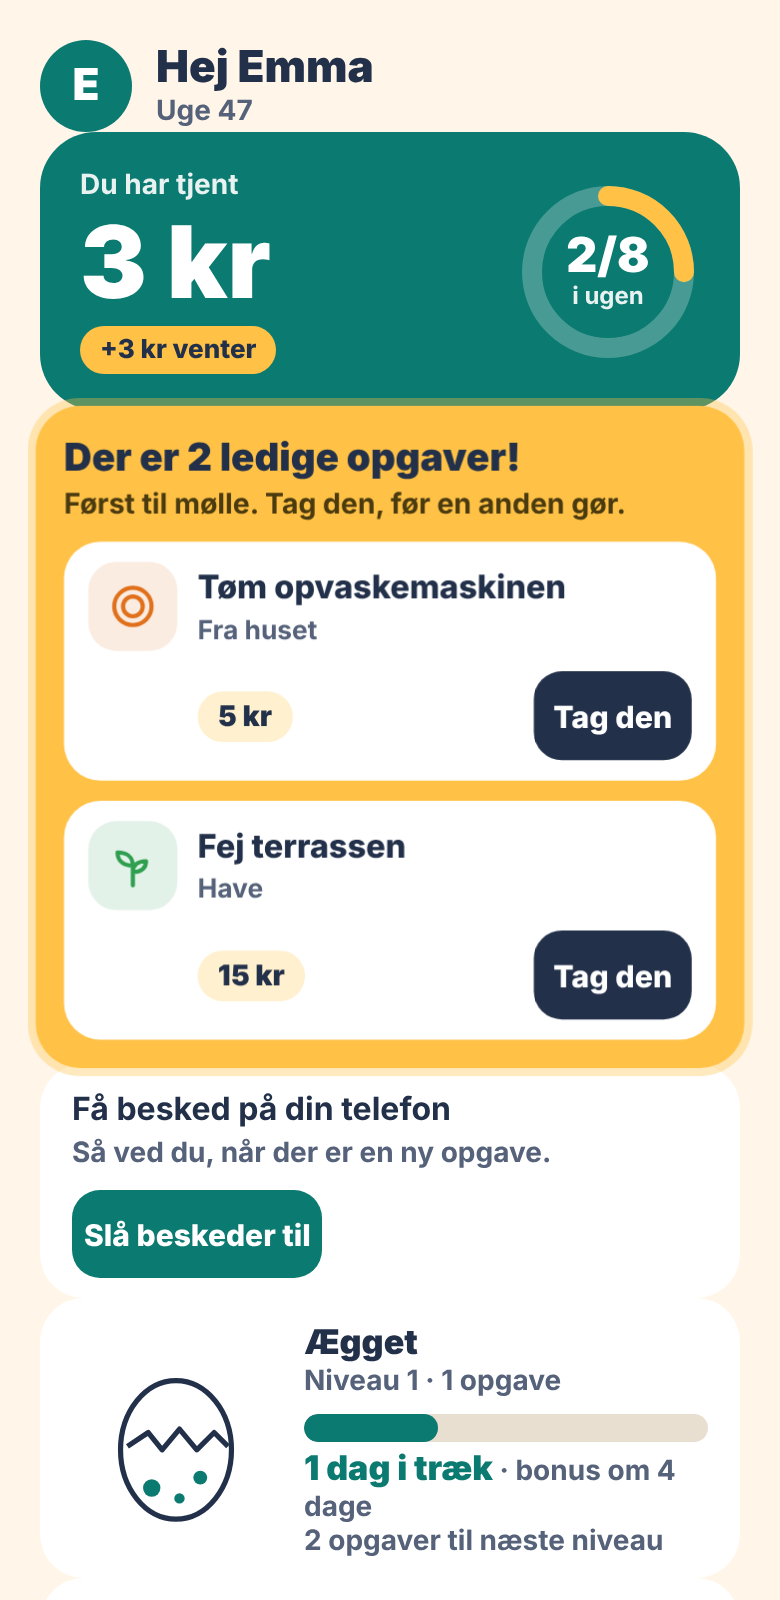
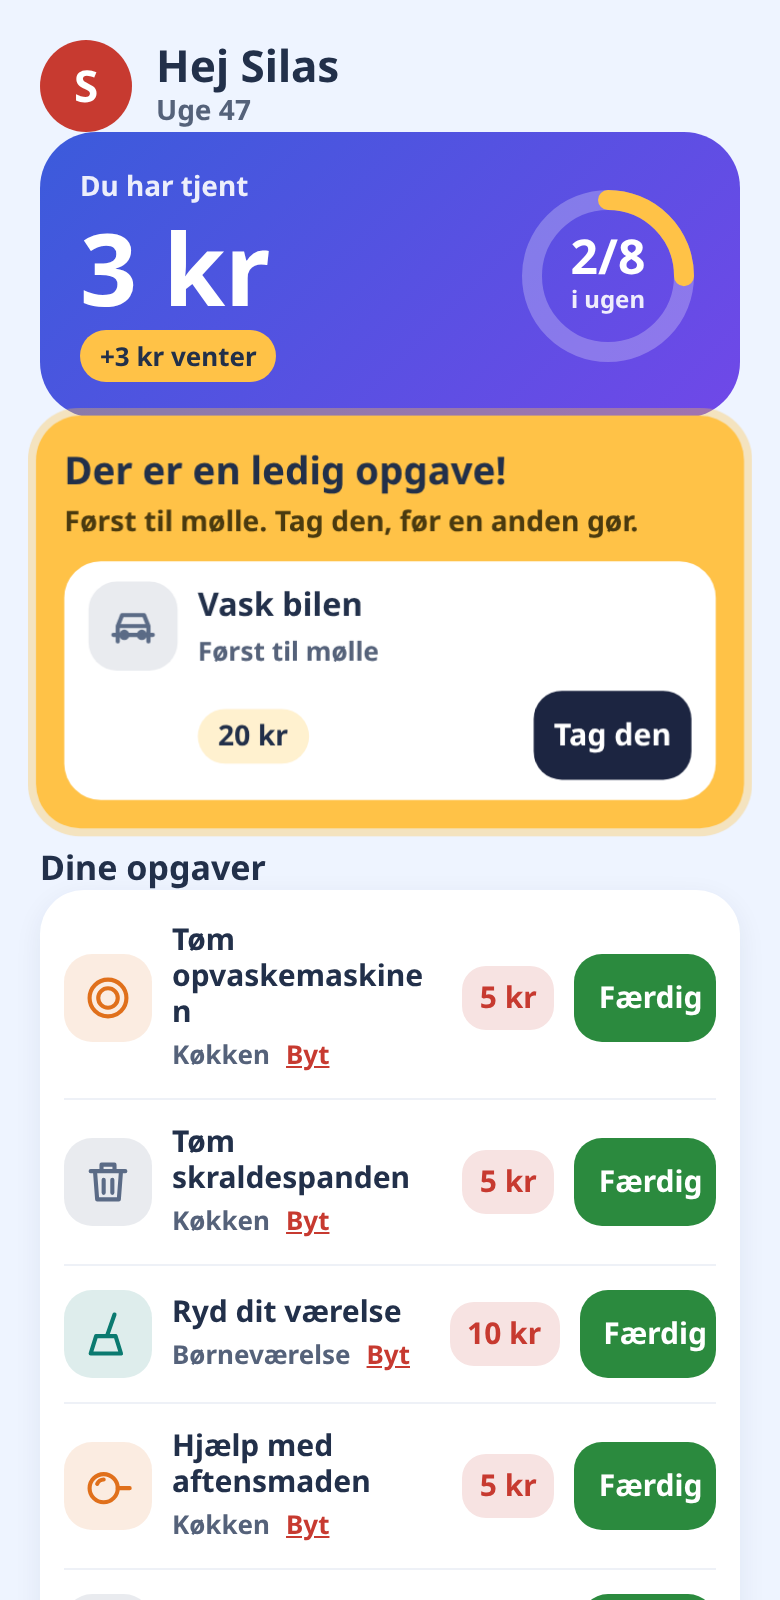
README: new overview, child's page by age, how-to, sick today, release time; new pictures

diff --git a/README.md b/README.md
@@ -42,6 +42,15 @@ Uden Nabu Casa og uden adresse udefra virker linkene som før: kun hjemme.
 - **Pligter** står med et rødt mærke og en frist, så barnet kan se, hvad der skal nås.
 - **Maddage** fra Madplan med opskrift og ingredienser, som kan foldes ud.
 - **Foreslå en opgave:** ser barnet noget, der skal laves, tager det et billede (eller skriver det). Du sætter navn og pris, og barnet får opgaven.
+- **Sådan gør du:** hver opgave kan have en kort trin-for-trin-guide med "Færdig når …". AI'en i Home Assistant kan skrive den, med ekstra trin til de store (fx afkalkning).
+- **Syg i dag:** barnet kan sige, at det er syg. Siger du ja, forsvinder dagens skoleopgaver (madpakke, skoletaske) uden træk.
+- **Siden vokser med barnet:** legende med store billeder og en stor flueben-knap til de mindste (0–8 år), ryddelig til 9–12 år og mørk og enkel som en tjekliste fra 13 år. Det skifter selv med alderen, eller du vælger pr. barn.
+
+<p align="center">
+  <img src="docs/barn_lille.png" alt="Barnets side, 0–8 år" width="200">
+  <img src="docs/barn.png" alt="Barnets side, 9–12 år" width="200">
+  <img src="docs/barn_stor.png" alt="Barnets side, 13+ år" width="200">
+</p>
 
 ### Til forældrene
 
@@ -50,10 +59,11 @@ Uden Nabu Casa og uden adresse udefra virker linkene som før: kun hjemme.
   <img src="docs/boern.png" alt="Børn" width="260">
 </p>
 
-- **Lige nu** på Oversigt viser maskineopgaverne, og om de er ledige, eller hvem der har taget dem.
-- **Godkend med ét tryk**, eller godkend alt på én gang. Opgaver kan kræve et foto som bevis.
+- **Oversigt på ét blik:** hvad der venter på dig, hvad der er i gang, og hvad der skal udbetales. "Pr. måned" og "Seneste" er foldet væk, til du åbner dem.
+- **Godkend pr. barn med ét tryk**, eller godkend alt på én gang. Tryk på barnet for at se og afvise de enkelte. Opgaver kan kræve et foto som bevis.
+- **I gang nu** viser maskineopgaver og ledige opgaver, et barn har taget. Har et andet barn lavet den, giver du den videre med **Giv til**, eller du tager den tilbage med **Fjern**.
 - **Giv en opgave med ét tryk:** hurtigknapper øverst på Oversigt med de mest brugte opgaver (eller dem, du har fastgjort). Hver knap viser **Alle** eller **Én**: en "Alle"-opgave (fx red din seng) sendes med ét tryk til hvert barn som deres egen; en "Én"-opgave (fx dæk bord) giver du til ét barn eller gør ledig for alle. Appen gætter ud fra navnet på 5 sprog, og du kan rette det på opgaven.
-- **Fast eller kun når du giver den:** en fast opgave kommer af sig selv, evt. kun på faste ugedage (fx søndag). En opgave, der står til "Kun når jeg giver den", ser børnene aldrig af sig selv, men den kan gives med hurtigknapperne.
+- **Fast eller kun når du giver den:** en fast opgave kommer af sig selv, evt. kun på faste ugedage (fx søndag) og først fra et bestemt klokkeslæt (**Frigives kl.**). En opgave, der står til "Kun når jeg giver den", ser børnene aldrig af sig selv, men den kan gives med hurtigknapperne.
 - **Opsætning på få minutter:** en startpakke opretter opgaver, der passer til børnenes alder. Appen kan også foreslå opgaver ud fra husets rum og enheder.
 - **Fleksible opgaver:** pris, gentagelse, flere gange om dagen, kun til bestemte børn, sæsonopgaver (fx løv om efteråret) og låsning efter alder, der åbner af sig selv, når barnet har fødselsdag.
 - **Årstid og vejr af sig selv:** græs, hæk, løv, havemøbler og sne får selv de rigtige måneder og højst én gang om ugen (hæk hver 3. uge), ud fra titlen. Med en vejr-entity i Home Assistant venter udendørs opgaver på en tør dag, og sneopgaver kommer kun, når det har sneet.
@@ -71,7 +81,7 @@ Uden Nabu Casa og uden adresse udefra virker linkene som før: kun hjemme.
   <img src="docs/huset.png" alt="Huset" width="260">
 </p>
 
-Når vaskemaskinen, tørretumbleren eller opvaskemaskinen er færdig, får børnene en ledig opgave og en besked, fx "Flyt tøj til tørretumbleren". Appen finder selv målerne i Home Assistant, og hvis navnene ikke passer, peger du på dem fra en liste. En lampe kan blinke grønt, når du godkender.
+Når vaskemaskinen, tørretumbleren eller opvaskemaskinen er færdig, får børnene en ledig opgave og en besked, fx "Flyt tøj til tørretumbleren". Appen finder selv målerne i Home Assistant, og hvis navnene ikke passer, søger du den rigtige frem under **Brug en anden måler**. En lampe kan blinke grønt, når du godkender.
 
 Tryk **Ret** på en regel for at ændre opgavens navn og pris.
 
